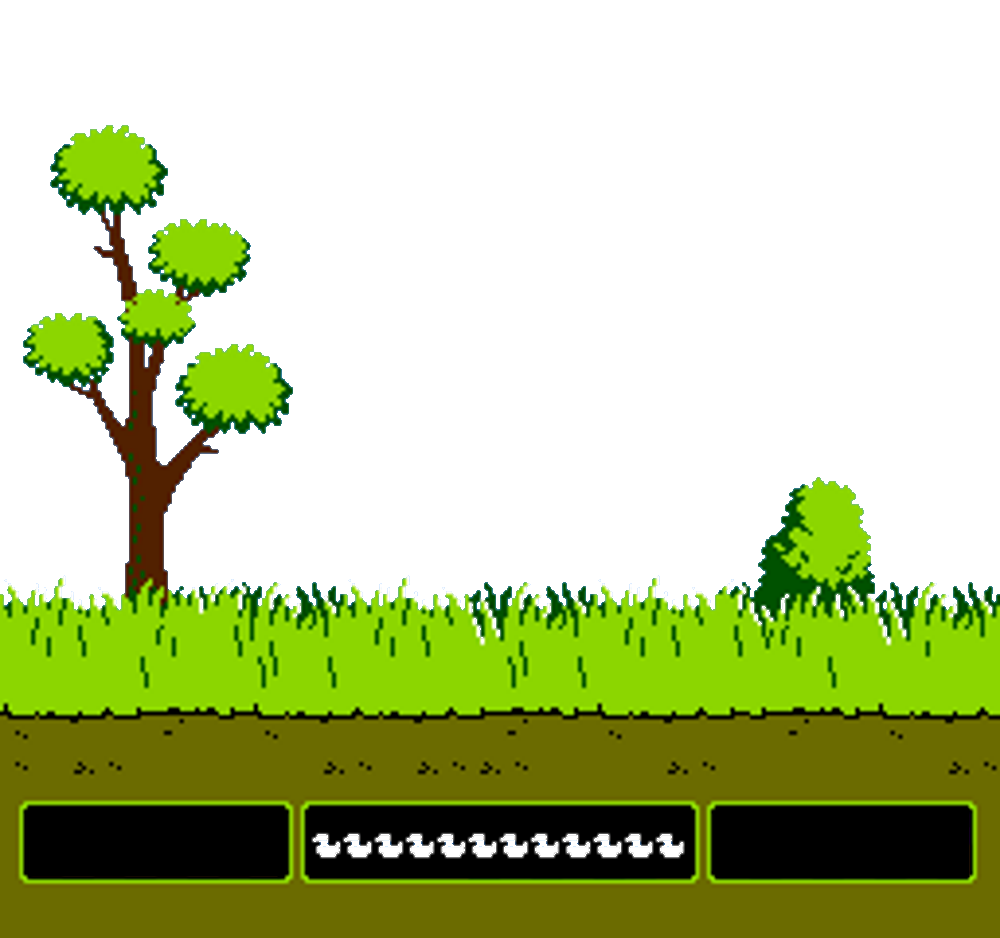
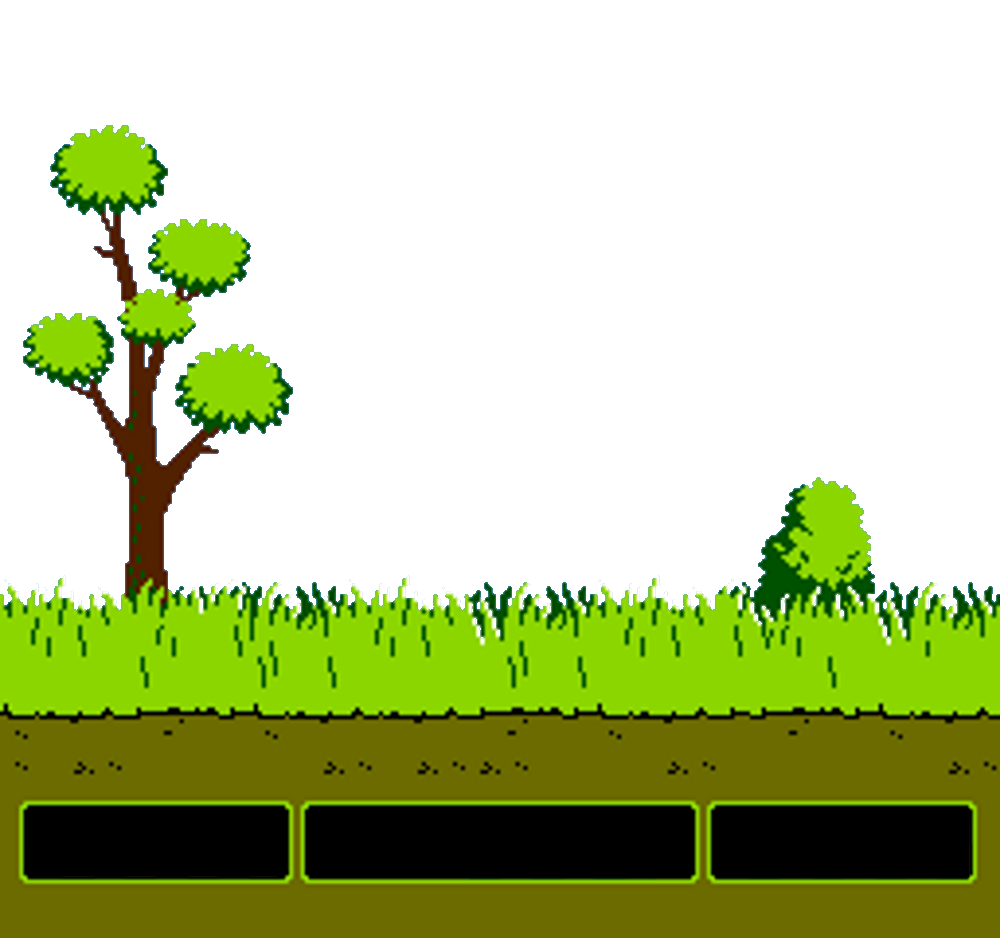
Fixes score bug

Changed region(s): [[0.31, 0.8657, 0.682, 0.9275]]

diff --git a/public/javascripts/duck_hunt.js b/public/javascripts/duck_hunt.js
@@ -1,9 +1,9 @@
 var game = new Phaser.Game(1000,910, Phaser.auto, 'math-hunt');
 
-function Duck(val) {
+function Duck(val, round) {
   this.xMove = 0;
   this.yMove = 0;
-  this.speed = 1;
+  this.speed = 1 * round * .5 ;
 
   if(val === 1){ this.sprite = game.add.sprite(Math.floor(Math.random()*800)+100, 650, '1')}
   else if(val === 2){ this.sprite = game.add.sprite(Math.floor(Math.random()*800)+100, 650, '2')}
@@ -439,17 +439,17 @@ var mainState= {
   renderScore: function(){
     for (var i=0 ; i < this.score1.length ; i++){
       if (this.score1[i] === 1){
-        game.add.sprite(311+(i*30),830,'redScore');
-      } else if (this.score1[1] === 0){
-        game.add.sprite(312+(i*30),830,'noScore');
+        game.add.sprite(311+(i*30 + 10),830,'redScore');
+      } else if (this.score1[i] === 0){
+        game.add.sprite(312+(i*30 +10),830,'noScore');
       }
     }
 
     for (var i=0 ; i < this.score2.length ; i++){
       if (this.score2[i] === 1){
-        game.add.sprite(655-(i*30),830,'blueScore');
-      } else if (this.score2[1] === 0){
-        game.add.sprite(655-(i*30),830,'noScore');
+        game.add.sprite(655-(i*30 + 20),830,'blueScore');
+      } else if (this.score2[i] === 0){
+        game.add.sprite(655-(i*30 + 20),830,'noScore');
       }
     }
   },
@@ -466,12 +466,19 @@ var mainState= {
     if (this.round < 6){
       this.showRound(this.round);
     } else {
-      this.gameOver;
+      this.gameOver();
     }
     this.ducks = [];
     this.reload();
     this.quacks.play();
     this.spawnQuestions();
+  },
+
+  gameOver: function(){
+    var text = game.add.text(game.world.centerX, game.world.centerY, "Game Over", { font: "64px Arial", fill: "#000000", align: "center" });
+    text.anchor.setTo(.5,.5);
+
+
   },
 
   showRound: function(round){
@@ -483,11 +490,16 @@ var mainState= {
   },
 
   endRound: function(){
-    console.log(this.ducks)
     hits = this.ducks.length;
+    console.log("round = " + this.round);
+    console.log("score2 = " + this.score2.length);
+    console.log("score1 = " + this.score1.length);
 
     if (this.score1.length < this.round){this.score1.push(0)}
     if (this.score2.length < this.round){this.score2.push(0)}
+
+    console.log("score2 = " + this.score2.length);
+    console.log("score1 = " + this.score1.length);
 
     for ( var i=0 ; i < this.ducks.length ; i++ )
     {
@@ -502,7 +514,7 @@ var mainState= {
   },
 
   oneDuck: function(val){
-    this.duck = new Duck(val);
+    this.duck = new Duck(val, this.round);
     this.duck.init();
     this.ducks.push(this.duck);
     game.time.events.loop(1, this.duck.move, this);
@@ -546,12 +558,16 @@ var mainState= {
     this.p2Question.text = num3.toString() + " + " + num4.toString();
 
     var rand = Math.floor(Math.random()*20);
+    while ( rand === num3+num4 || rand === num1+num2){
+      rand = Math.floor(Math.random()*20);
+    }
     this.oneDuck(rand);
     this.reorderSprites();
   },
 
   callDog: function(hits){
-    this.spawnDucks();
+    var that = this;
+    setTimeout(function(){that.spawnDucks() },3000);
   }
 };
 
